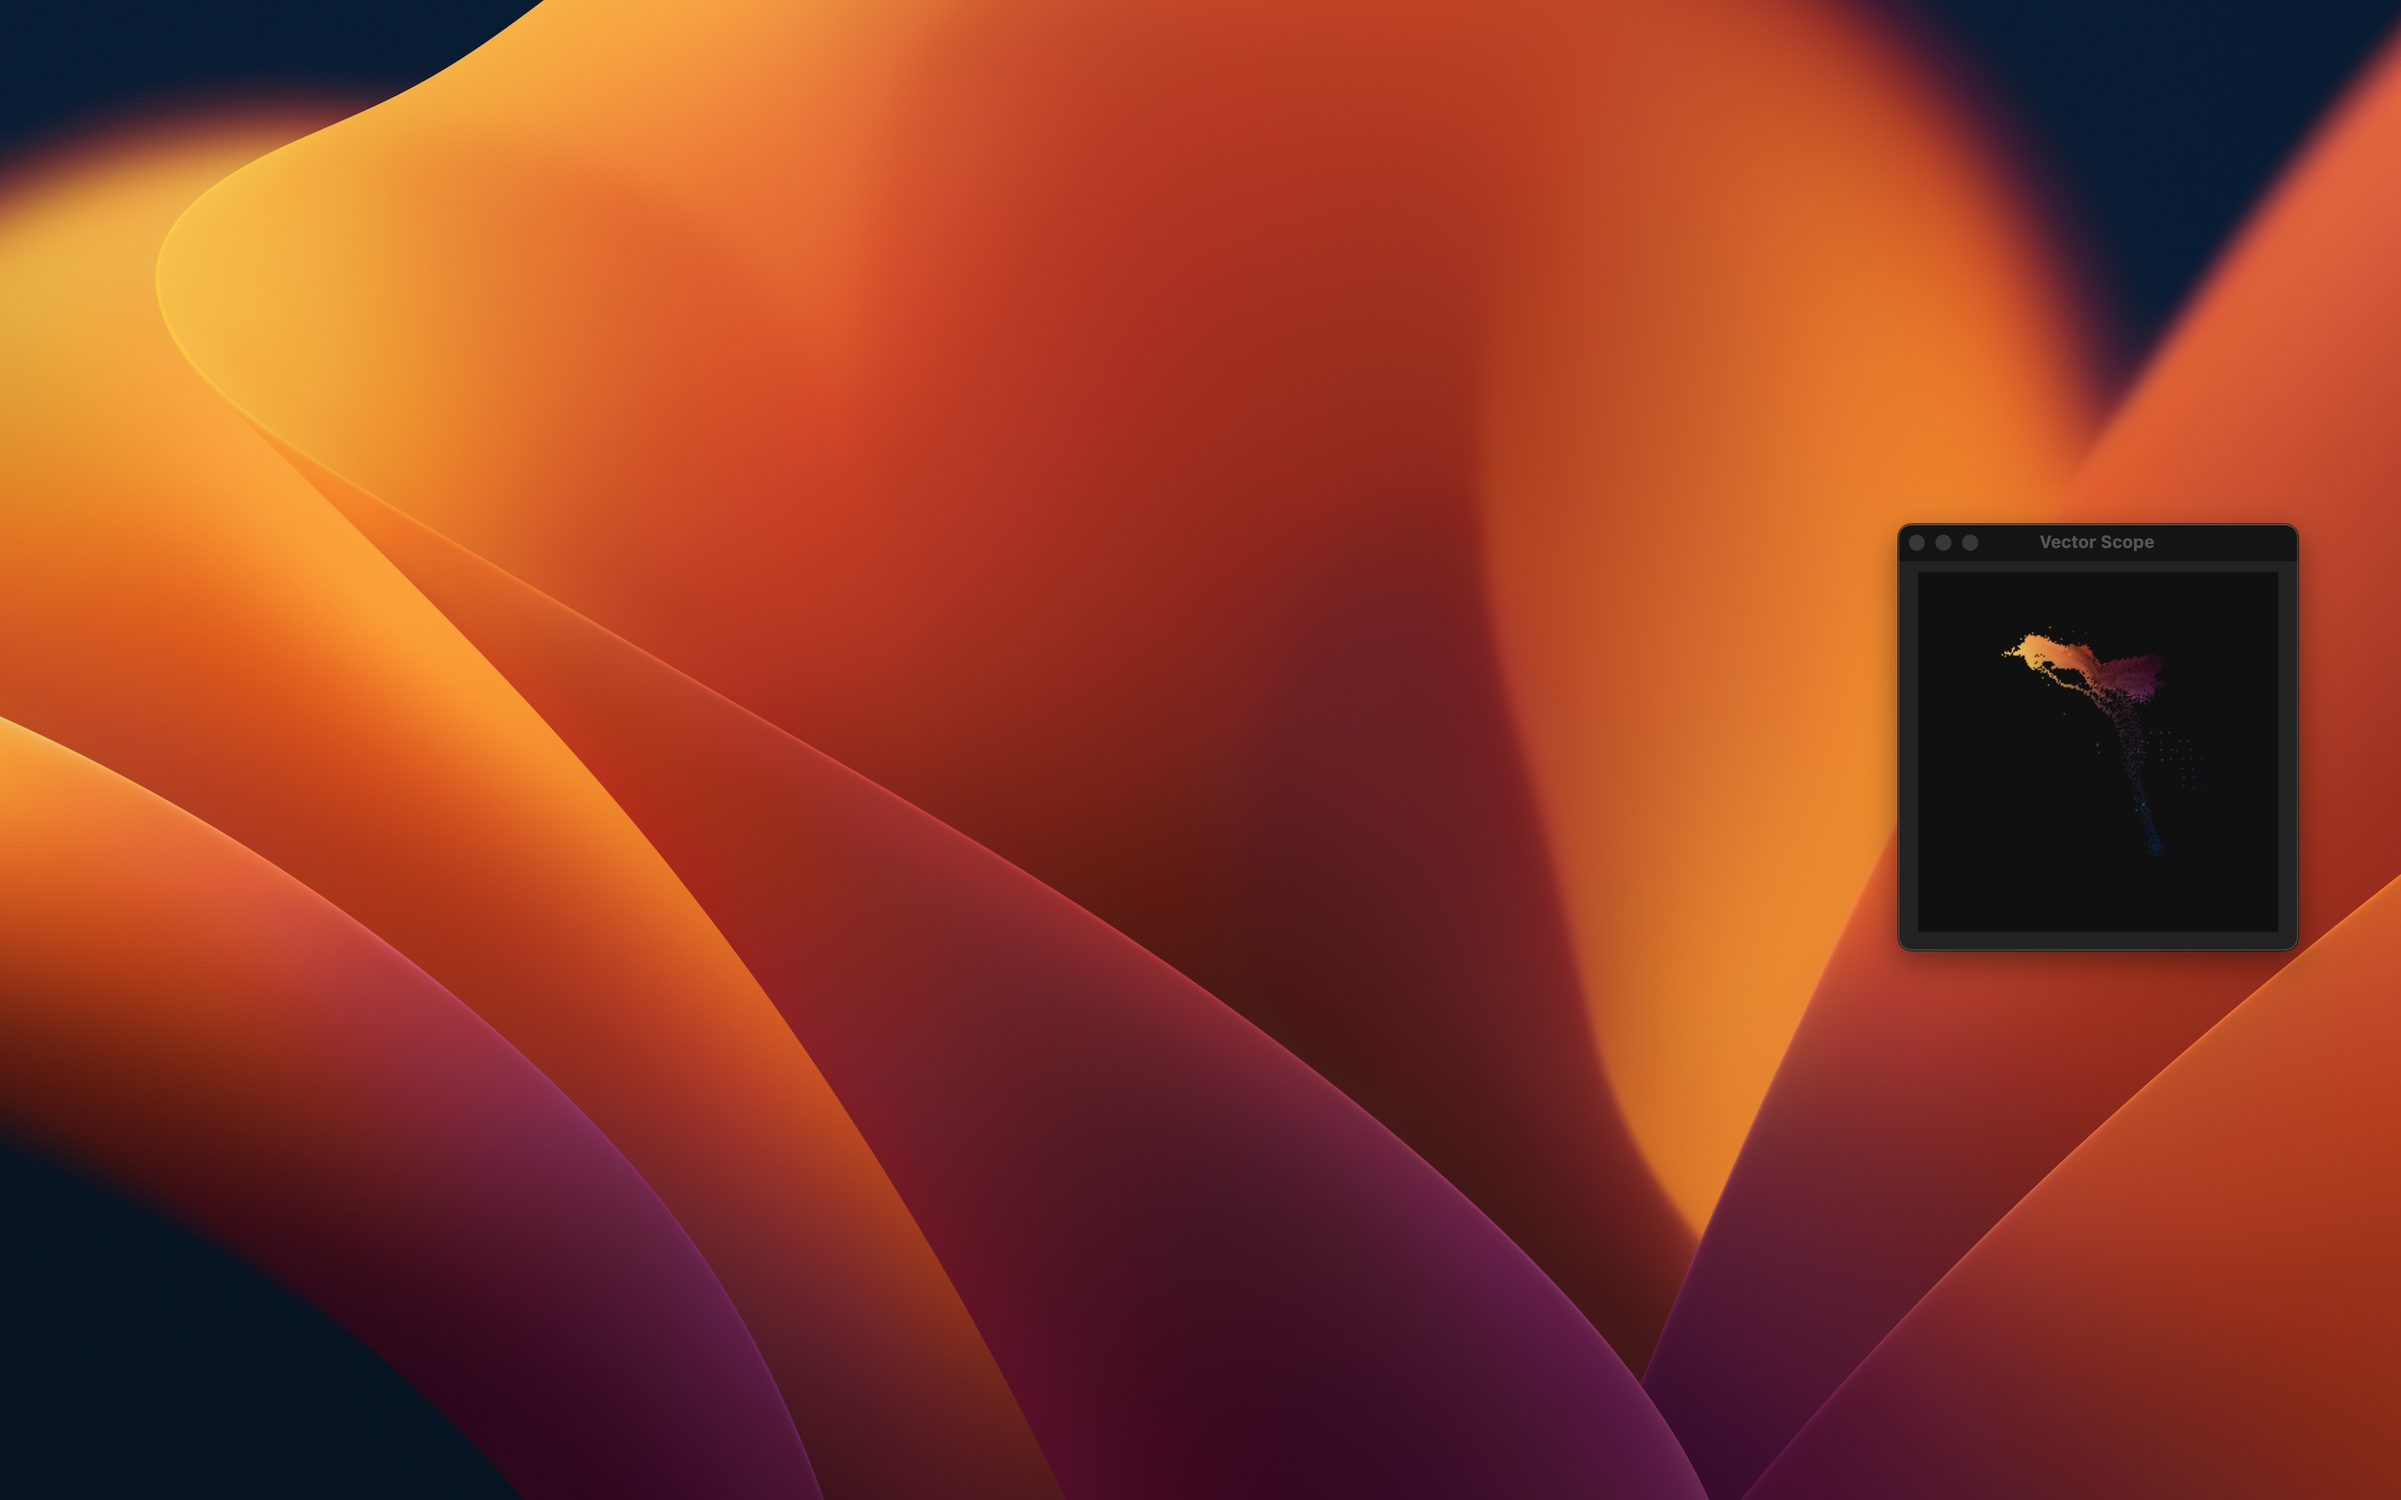
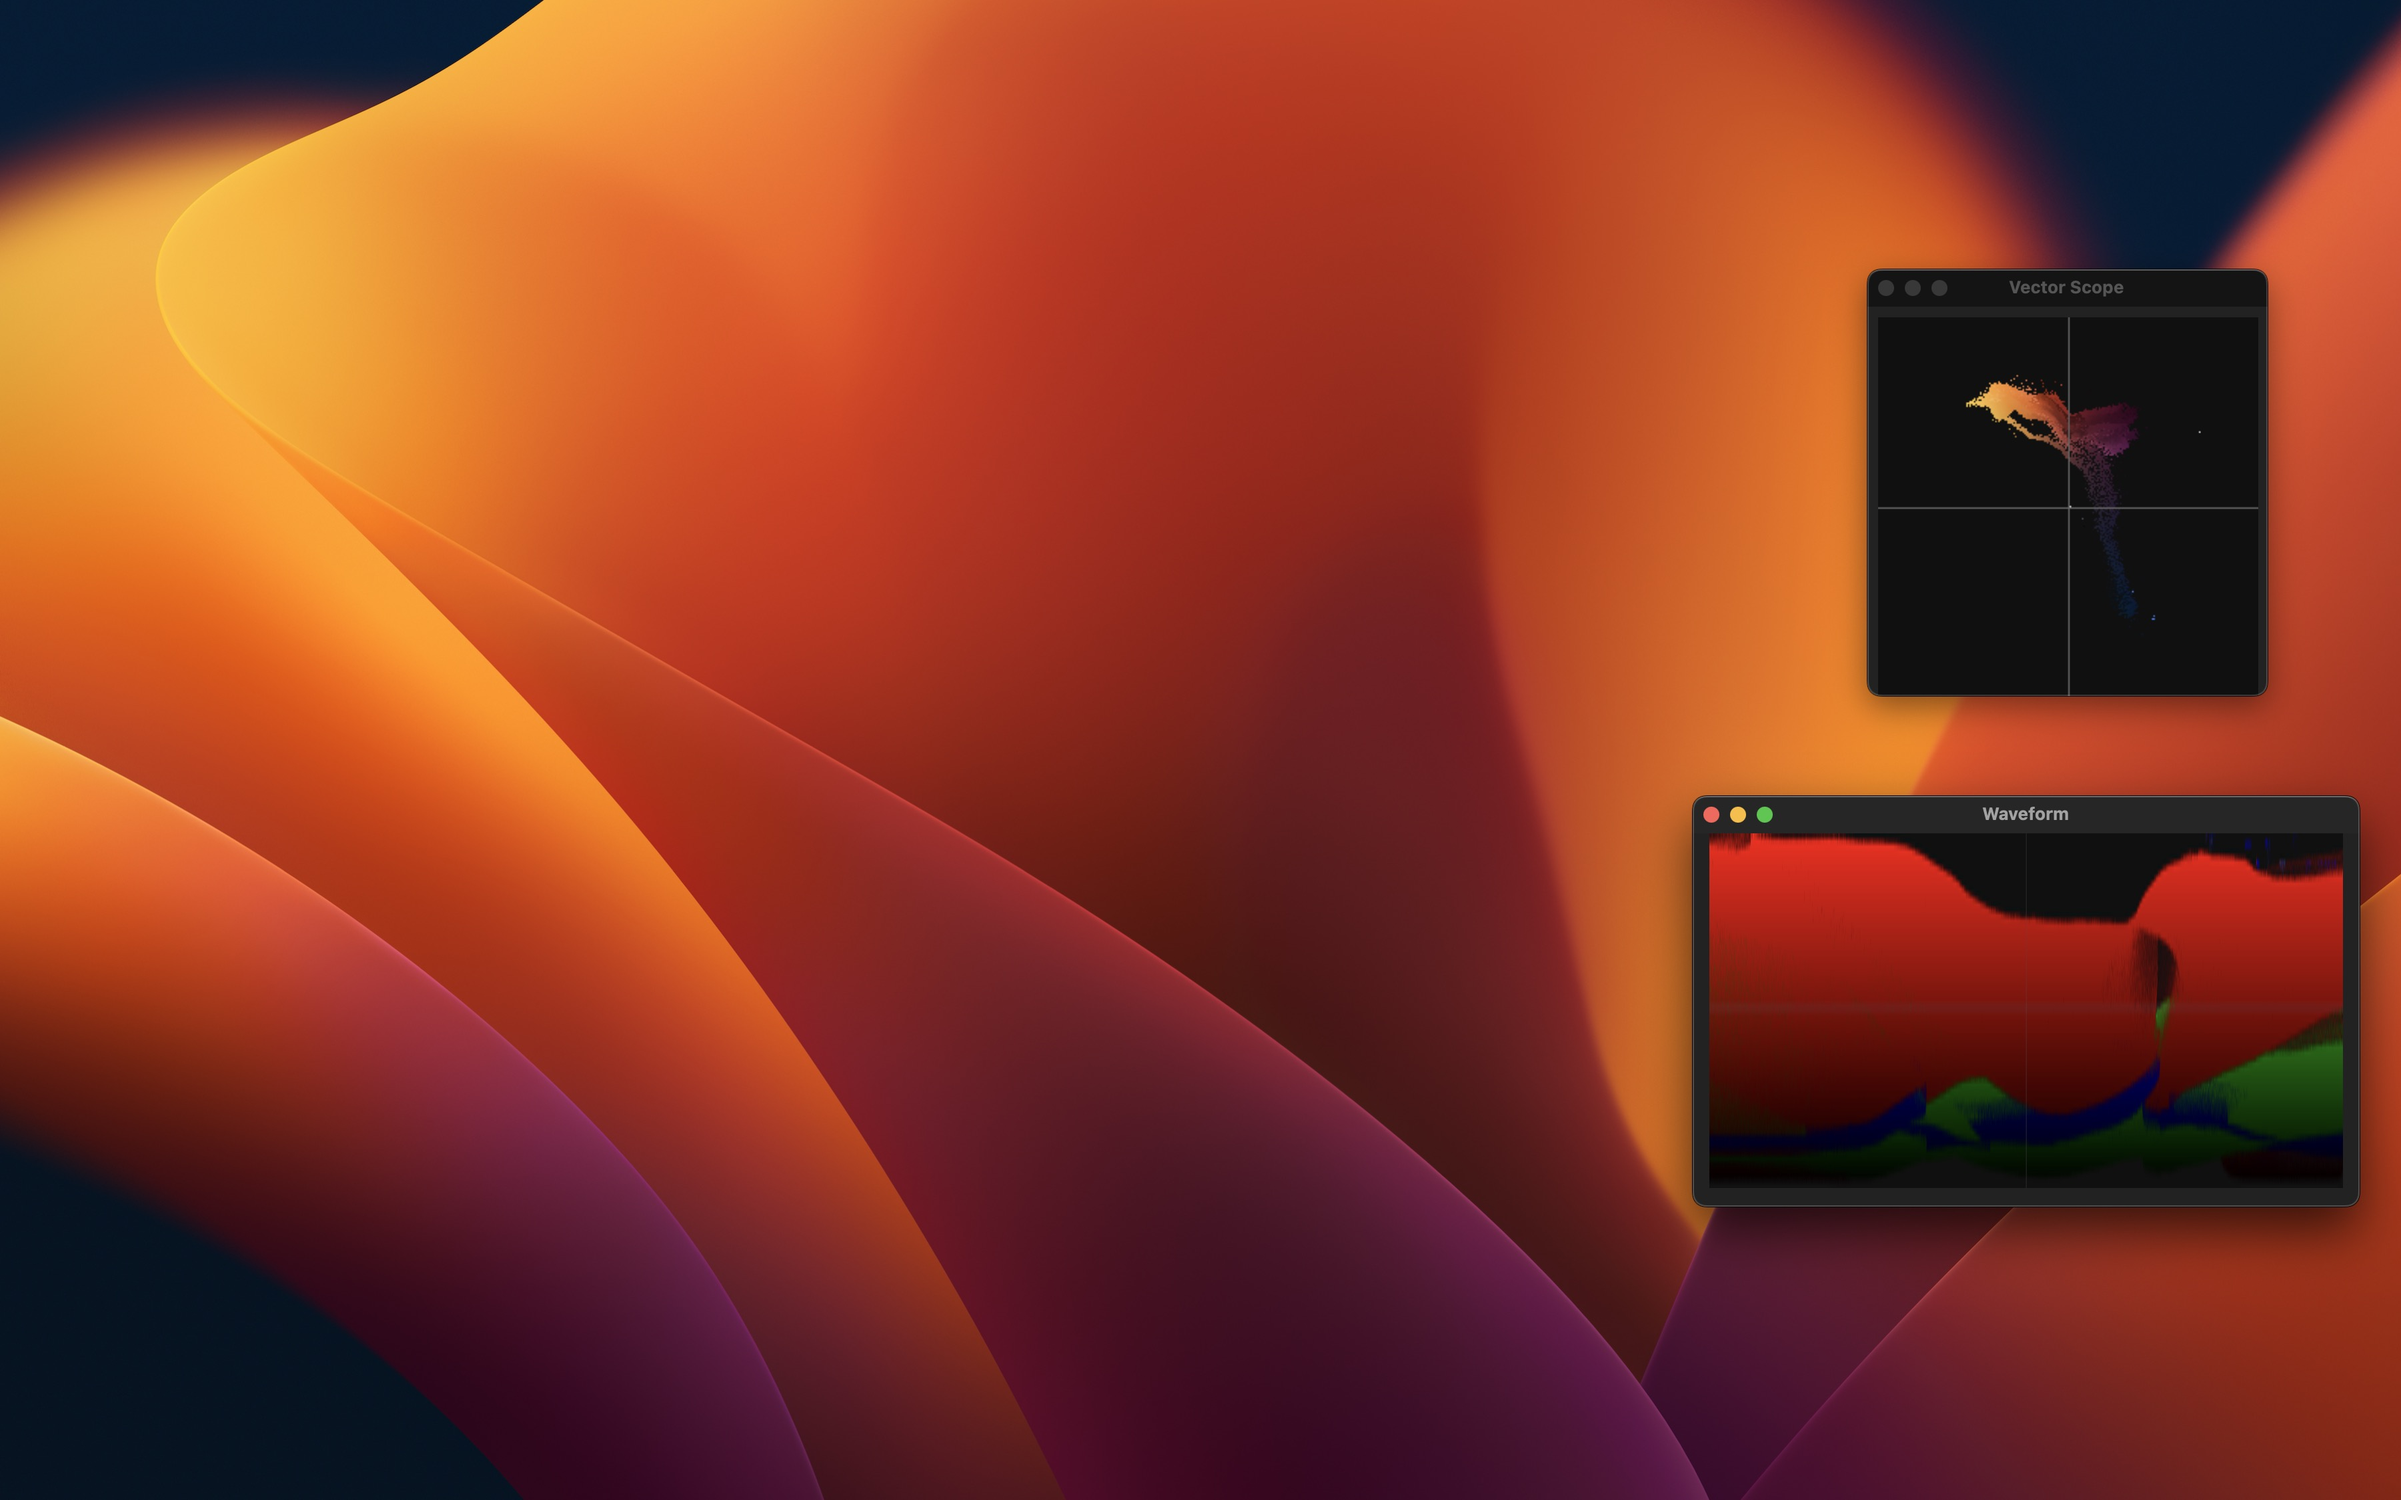
Update readme

Changed region(s): [[0.6844, 0.1556, 0.9956, 0.84]]

diff --git a/README.md b/README.md
@@ -1,10 +1,9 @@
 <h1 align="center">Analyze screen by Vector Scope with Tauri (Rust + JS)</h1>
 
-
-
 ![example](/Sample_1.jpg)
 ![example](/Sample_2.jpg)
 ![example](/Sample_3.jpg)
+
 <div align="center">
 Lightweight screen color analyze tool powered by Tauri.
 </div>
@@ -12,6 +11,7 @@ Lightweight screen color analyze tool powered by Tauri.
 <h1>Features</h1>
 
 ### Basic feature
+
 - Show vector scope from screen content
 - Vector scope window is always on top; not blocked by other windows
 - Vector scope window is not captured; the analyze result is not containing vector scope itself
@@ -20,13 +20,15 @@ Lightweight screen color analyze tool powered by Tauri.
   - Standby RAM usage: ~200MB
   - Standby CPU usage: almost 0%
     - Checked on my MacBook (M1 Pro)
-   
+
 ### Refresh view
+
 - Auto refresh: 1 sec interval
 - Manual refresh by: `Command Or Control + Shift + R` (from anywhere. not require focus on window.)
   - This also stops auto refresh for less CPU usage
 
 ### Area speficied capture
+
 - Selected area only analyze
 - Easy to set or reset area
 
@@ -37,7 +39,10 @@ Lightweight screen color analyze tool powered by Tauri.
   - [x] Manual refresh feature
   - [x] Capturing area specified analyze
   - [ ] Better UI
-- [ ] Add waveform
+- [x] Add waveform
+  - [ ] Add luminance view
+  - [ ] Add separate RGB view
+- [ ] Add around mouse local analyze feature
 - [ ] Add user configuration
   - [ ] Analyze resolution
   - [ ] Global shortcut
